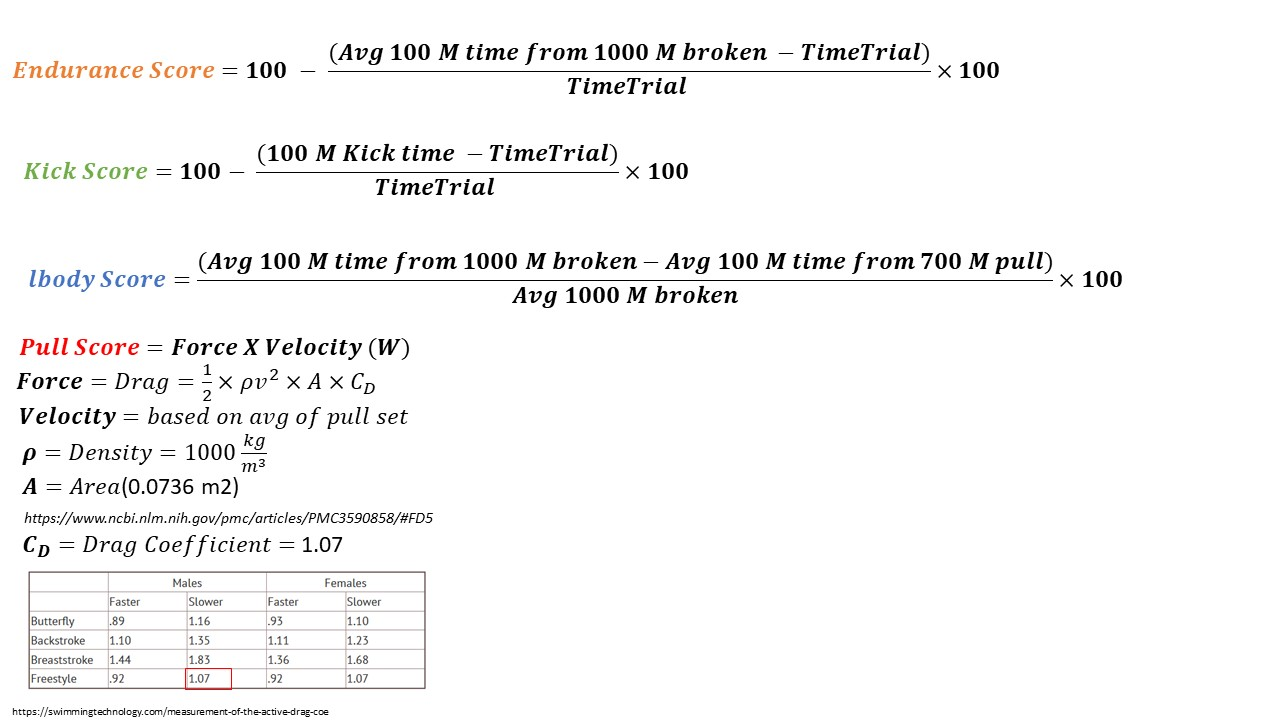
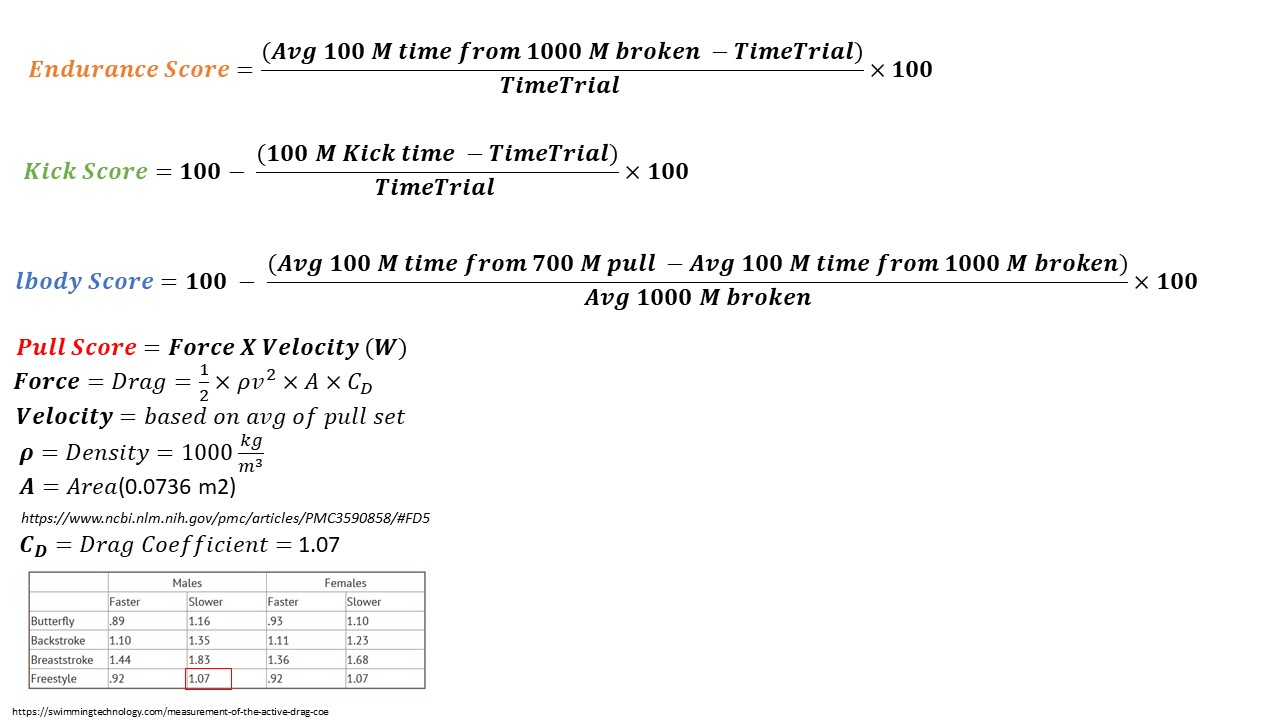
-added PB metric for athletes -corrected formula for lbody score -image for PB

Changed region(s): [[0.0, 0.4583, 0.3438, 0.7944], [0.0, 0.3361, 0.9375, 0.4278], [0.0, 0.0611, 0.7812, 0.1528]]

diff --git a/halloffame.py b/halloffame.py
@@ -21,7 +21,7 @@ import requests
 sheet_id = '1MtzRZiacK93npe_i4AhJ5okC7RtKAo_3l2aWMdpHl7c'
 
 
-def hall_of_fame(WORKOUTS):
+def hall_of_fame(WORKOUTS, athlete=None):
     # utility build display string from nanoseconds
     def strfdelta(t, fmt="{minutes:02d}:{seconds:02d}.{milli:03d}"):
         d = {}
@@ -42,8 +42,8 @@ def hall_of_fame(WORKOUTS):
             time_var = datetime.datetime.strptime(str(s), time_fmt).time()
             time_stamp = pd.Timestamp(year=1970, month=1, day=1, hour=int(time_var.hour), minute=int(time_var.minute),
                                       second=int(time_var.second),
-                                      microsecond=int(time_var.microsecond)) - pd.to_datetime("1-jan-1970"). \
-                             replace(hour=0, minute=0, second=0, microsecond=0)
+                                      microsecond=int(time_var.microsecond)) - pd.to_datetime("1-jan-1970").\
+                replace(hour=0, minute=0, second=0, microsecond=0)
 
             return time_stamp
         except ValueError:
@@ -62,6 +62,7 @@ def hall_of_fame(WORKOUTS):
         time_col = []
         if 'NAME ' in input_df.columns:
             input_df.rename(columns={'NAME ': 'NAME'}, inplace=True)
+
         for col in input_df.columns:
 
             try:
@@ -100,6 +101,8 @@ def hall_of_fame(WORKOUTS):
                 time_dist_col.append(col+1)
             rank_df = input_df.iloc[:, time_dist_col]
             rank_df = rank_df.set_index(input_df['NAME'])
+            if athlete:
+                rank_df = rank_df[rank_df.index == athlete]
             dist_name = [col for col in rank_df.columns if 'DISTANCE' in col]
             rank_time_dist = rank_df.loc[:, dist_name].max().max()
             rank_names = list(rank_df[rank_df == rank_time_dist].dropna(how='all').index)
@@ -110,8 +113,15 @@ def hall_of_fame(WORKOUTS):
                                     'TIME/DIST': rank_time_dist, 'DATE': rank_date})
         else:
             timings = [input_df.columns.get_loc(col) for col in input_df.columns if 'time' in col]
-            rank_df = input_df.iloc[1::, timings].applymap(func=outer(fmt)).copy()
-            rank_df = rank_df.set_index(input_df['NAME'][1::])
+            input_df.drop(input_df.index[input_df['NAME'].isna()], inplace=True)
+            rank_df = input_df.iloc[:, timings].applymap(func=outer(fmt)).copy()
+            # rank_df = input_df.iloc[1::, timings].applymap(func=outer(fmt)).copy()
+            # if athlete:
+            rank_df = rank_df.set_index(input_df['NAME'])
+            if athlete:
+                rank_df = rank_df[rank_df.index == athlete]
+            # else:
+            #     rank_df = rank_df.set_index(input_df['NAME'][1::])
             rank_names = list(rank_df[rank_df == rank_df.min().min()].dropna(how='all').index)
         # if mapping[workout]['plot'] == 'distance':
 

diff --git a/dashboard.py b/dashboard.py
@@ -416,6 +416,9 @@ if display_mode == 'Individual':
     name = st.selectbox('Select Athlete', ATHLETES)
     data_select = st.radio('Data Range', ('All', 'Last 8 instances'))
     plot_athlete(name, data_select)
+    pb_df = hall_of_fame(WORKOUTS, name)
+    st.sidebar.image(r'./images/PB.jpg')
+    st.sidebar.table(pb_df)
 elif display_mode == 'Group':
     option = st.selectbox('Select workout', WORKOUTS)
     plot_workout(option)
